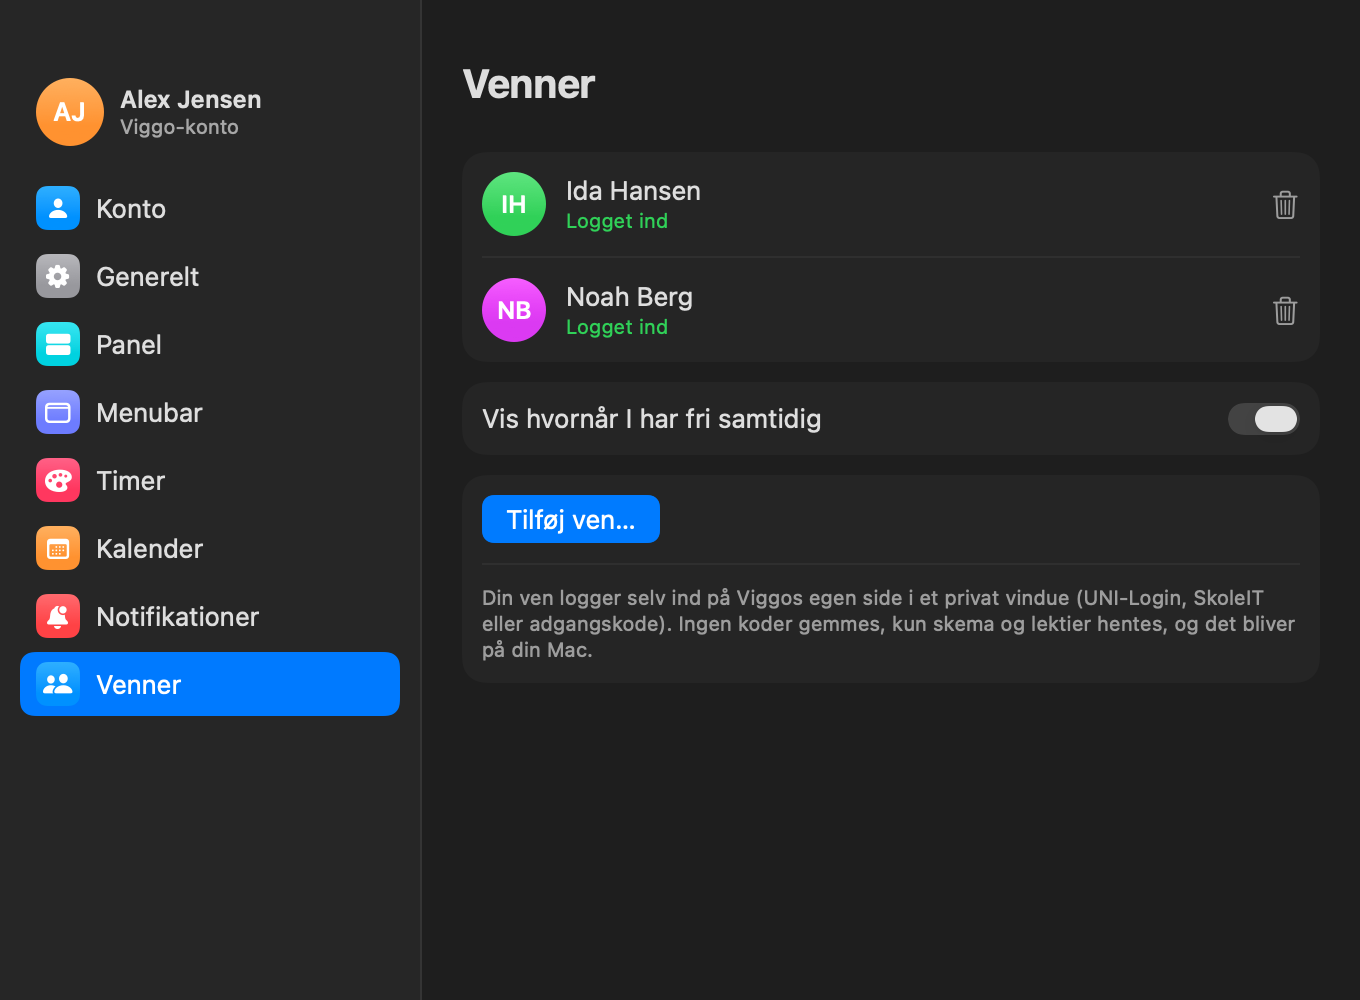
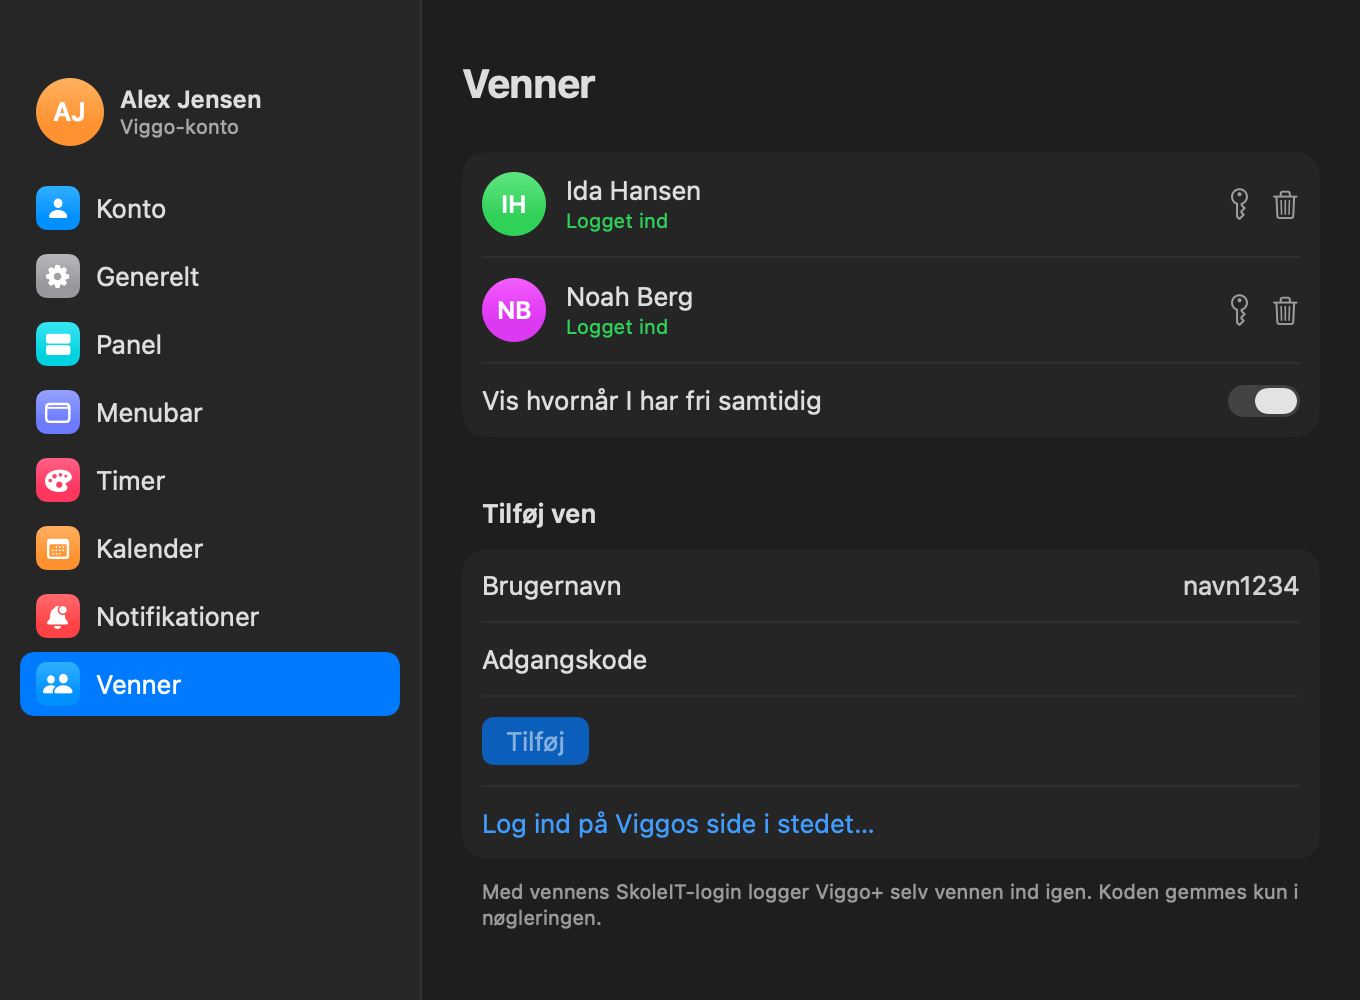
Enklere Konto- og Venner-side: login-felter direkte på siden, kortere tekster

diff --git a/Sources/Views.swift b/Sources/Views.swift
@@ -577,6 +577,7 @@ struct SettingsView: View {
 
 struct AccountTab: View {
     @EnvironmentObject var state: AppState
+    @State private var saved = SkoleITLogin.isSet
 
     var body: some View {
         Form {
@@ -586,72 +587,43 @@ struct AccountTab: View {
                         Avatar(url: prof.image, size: 48, name: prof.name)
                         VStack(alignment: .leading, spacing: 2) {
                             Text(prof.name).font(.headline)
-                            Text("Logget ind på \(Config.baseURL.host ?? "Viggo")").font(.caption).foregroundStyle(.secondary)
+                            Text(Config.baseURL.host ?? "Viggo").font(.caption).foregroundStyle(.secondary)
                         }
                         Spacer()
                         Button("Log ud", role: .destructive) { state.logout() }
                     }
                 }
-                Section {
-                    Label("Viggo+ holder dig logget ind så længe appen kører. Udløber sessionen alligevel, får du en notifikation og logger ind igen med ét klik.",
-                          systemImage: "checkmark.shield")
-                        .font(.caption).foregroundStyle(.secondary)
-                }
-            } else {
-                Section("Log ind") {
-                    Button("Åbn Viggo-login…") { state.loginWithBrowser() }.buttonStyle(.borderedProminent)
-                    Text("UNI-Login, SkoleIT eller adgangskode, præcis som på hjemmesiden.")
-                        .font(.caption).foregroundStyle(.secondary)
-                    if !state.loginMessage.isEmpty {
-                        Text(state.loginMessage).font(.caption)
+            }
+            Section {
+                if saved {
+                    HStack {
+                        Label(SkoleITLogin.username ?? "", systemImage: "key.fill")
+                        Spacer()
+                        if state.autoLoginRunning { ProgressView().controlSize(.small) }
+                        if state.needsLogin {
+                            Button("Log ind") { Task { if await state.tryAutoLogin(force: true) { await state.sync() } } }
+                                .buttonStyle(.borderedProminent).disabled(state.autoLoginRunning)
+                        }
+                        Button("Fjern") { state.removeAutoLogin(); saved = false }
+                    }
+                } else {
+                    SkoleITFields(button: state.needsLogin ? "Log ind" : "Gem") { u, p in
+                        saved = true
+                        Task { await state.saveAutoLogin(username: u, password: p) }
                     }
                 }
+                if state.needsLogin {
+                    Button("Log ind på Viggos side i stedet…") { state.loginWithBrowser() }.buttonStyle(.link)
+                }
+                if !state.loginMessage.isEmpty { Text(state.loginMessage).font(.caption).foregroundStyle(.secondary) }
+            } header: {
+                Text(state.needsLogin ? "Log ind med SkoleIT" : "Automatisk login")
+            } footer: {
+                Text("Viggo+ logger selv ind, når sessionen udløber. Koden gemmes kun i nøgleringen.")
+                    .font(.caption).foregroundStyle(.secondary)
             }
-            AutoLoginSection()
         }
         .formStyle(.grouped)
-    }
-}
-
-/// Saved SkoleIT login, so Viggo+ can log in again by itself when the session runs out.
-struct AutoLoginSection: View {
-    @EnvironmentObject var state: AppState
-    @State private var user = SkoleITLogin.username ?? ""
-    @State private var pass = ""
-    @State private var saved = SkoleITLogin.isSet
-
-    var body: some View {
-        Section("Automatisk login med SkoleIT") {
-            if saved {
-                HStack {
-                    Label(SkoleITLogin.username ?? "", systemImage: "key.fill")
-                    Spacer()
-                    Button("Log ind nu") { Task { if await state.tryAutoLogin(force: true) { await state.sync() } } }
-                        .disabled(state.autoLoginRunning)
-                    Button("Fjern", role: .destructive) { state.removeAutoLogin(); saved = false; pass = "" }
-                }
-            } else {
-                TextField("SkoleIT-brugernavn", text: $user, prompt: Text("navn1234"))
-                    .textContentType(.username)
-                if !user.isEmpty, !user.contains("@") {
-                    Text("Logger ind som \(SkoleITLogin.normalize(user))").font(.caption).foregroundStyle(.secondary)
-                }
-                SecureField("Adgangskode", text: $pass)
-                    .textContentType(.password)
-                Button("Gem og log ind") {
-                    let u = user.trimmingCharacters(in: .whitespaces), p = pass
-                    pass = ""
-                    saved = true
-                    Task { await state.saveAutoLogin(username: u, password: p) }
-                }
-                .buttonStyle(.borderedProminent)
-                .disabled(user.trimmingCharacters(in: .whitespaces).isEmpty || pass.isEmpty || state.autoLoginRunning)
-            }
-            if state.autoLoginRunning { ProgressView().controlSize(.small) }
-            if saved, !state.loginMessage.isEmpty { Text(state.loginMessage).font(.caption) }
-            Text("Udløber sessionen, logger Viggo+ selv ind: UNI-Login, Lokalt login, SkoleIT. Adgangskoden ligger kun i din Mac's nøglering. Log ud fjerner den.")
-                .font(.caption).foregroundStyle(.secondary)
-        }
         .onReceive(state.$loginMessage) { _ in saved = SkoleITLogin.isSet }
     }
 }
@@ -880,54 +852,54 @@ struct SkoleITFields: View {
     @State private var pass = ""
 
     var body: some View {
-        TextField("SkoleIT-brugernavn", text: $user, prompt: Text("navn1234"))
-        if !user.isEmpty, !user.contains("@") {
-            Text("Logger ind som \(SkoleITLogin.normalize(user))").font(.caption).foregroundStyle(.secondary)
-        }
+        TextField("Brugernavn", text: $user, prompt: Text("navn1234"))
+            .help(user.isEmpty || user.contains("@") ? "" : SkoleITLogin.normalize(user))
         SecureField("Adgangskode", text: $pass)
-        Button(button) {
-            let u = SkoleITLogin.normalize(user), p = pass
-            user = ""; pass = ""
-            onSave(u, p)
-        }
-        .disabled(user.trimmingCharacters(in: .whitespaces).isEmpty || pass.isEmpty)
+            .onSubmit(save)
+        Button(button, action: save)
+            .buttonStyle(.borderedProminent)
+            .disabled(user.trimmingCharacters(in: .whitespaces).isEmpty || pass.isEmpty)
+    }
+
+    private func save() {
+        guard !user.trimmingCharacters(in: .whitespaces).isEmpty, !pass.isEmpty else { return }
+        let u = SkoleITLogin.normalize(user), p = pass
+        user = ""; pass = ""
+        onSave(u, p)
     }
 }
 
-/// The key next to a friend: save, test or remove their SkoleIT login.
+/// The key next to a friend: save or remove their SkoleIT login.
 struct FriendAutoLoginButton: View {
     @EnvironmentObject var state: AppState
     let friend: Friend
     @State private var open = false
-    @State private var saved = false
 
     var body: some View {
-        Button { saved = FriendLogin.has(friend.id); open = true } label: {
-            Image(systemName: FriendLogin.has(friend.id) ? "key.fill" : "key")
-        }
-        .buttonStyle(.borderless)
-        .help("Automatisk login for \(friend.firstName)")
-        .popover(isPresented: $open, arrowEdge: .bottom) {
-            Form {
-                Section("Automatisk login for \(friend.firstName)") {
-                    if saved, let u = FriendLogin.get(friend.id)?.user {
-                        Label(u, systemImage: "key.fill")
-                        HStack {
-                            Button("Log ind nu") { Task { await state.tryFriendAutoLogin(friend, force: true) } }
-                            Button("Fjern", role: .destructive) { state.removeFriendAutoLogin(friend); saved = false }
-                        }
-                    } else {
-                        SkoleITFields(button: "Gem og log ind") { u, p in
-                            saved = true
-                            Task { await state.saveFriendAutoLogin(friend, username: u, password: p) }
+        let saved = FriendLogin.has(friend.id)
+        Button { open = true } label: { Image(systemName: saved ? "key.fill" : "key") }
+            .buttonStyle(.borderless)
+            .help(saved ? "Automatisk login er slået til" : "Slå automatisk login til")
+            .popover(isPresented: $open, arrowEdge: .bottom) {
+                Form {
+                    Section("Automatisk login for \(friend.firstName)") {
+                        if saved, let u = FriendLogin.get(friend.id)?.user {
+                            HStack {
+                                Text(u)
+                                Spacer()
+                                Button("Fjern") { state.removeFriendAutoLogin(friend); open = false }
+                            }
+                        } else {
+                            SkoleITFields(button: "Gem") { u, p in
+                                open = false
+                                Task { await state.saveFriendAutoLogin(friend, username: u, password: p) }
+                            }
                         }
                     }
-                    if !state.friendMessage.isEmpty { Text(state.friendMessage).font(.caption) }
                 }
+                .formStyle(.grouped)
+                .frame(width: 300)
             }
-            .formStyle(.grouped)
-            .frame(width: 320)
-        }
     }
 }
 
@@ -937,51 +909,46 @@ struct FriendsTab: View {
 
     var body: some View {
         Form {
-            Section {
-                if state.friends.isEmpty {
-                    Text("Ingen venner tilføjet endnu").foregroundStyle(.secondary)
-                }
-                ForEach(state.friends) { f in
-                    let expired = state.friendExpired.contains(f.id)
-                    HStack(spacing: 10) {
-                        Avatar(url: f.image, size: 32, name: f.name).opacity(expired ? 0.5 : 1)
-                        VStack(alignment: .leading, spacing: 1) {
-                            Text(f.name)
-                            Text(expired ? "Skal logge ind igen" : "Logget ind")
-                                .font(.caption).foregroundStyle(expired ? .orange : .green)
+            if !state.friends.isEmpty {
+                Section {
+                    ForEach(state.friends) { f in
+                        let expired = state.friendExpired.contains(f.id)
+                        HStack(spacing: 10) {
+                            Avatar(url: f.image, size: 32, name: f.name).opacity(expired ? 0.5 : 1)
+                            VStack(alignment: .leading, spacing: 1) {
+                                Text(f.name)
+                                Text(expired ? "Skal logge ind igen" : "Logget ind")
+                                    .font(.caption).foregroundStyle(expired ? .orange : .green)
+                            }
+                            Spacer()
+                            if state.friendAutoLoginRunning.contains(f.id) {
+                                ProgressView().controlSize(.small)
+                            } else if expired {
+                                Button("Log ind") {
+                                    if FriendLogin.has(f.id) {
+                                        Task { if await !state.tryFriendAutoLogin(f, force: true) { state.addFriend(relogin: f) } }
+                                    } else { state.addFriend(relogin: f) }
+                                }.buttonStyle(.borderedProminent)
+                            }
+                            FriendAutoLoginButton(friend: f)
+                            Button(role: .destructive) { state.removeFriend(f) } label: { Image(systemName: "trash") }
+                                .buttonStyle(.borderless)
                         }
-                        Spacer()
-                        if state.friendAutoLoginRunning.contains(f.id) { ProgressView().controlSize(.small) }
-                        if expired {
-                            Button("Log ind igen") {
-                                if FriendLogin.has(f.id) {
-                                    Task { if await !state.tryFriendAutoLogin(f, force: true) { state.addFriend(relogin: f) } }
-                                } else { state.addFriend(relogin: f) }
-                            }.buttonStyle(.borderedProminent)
-                        }
-                        FriendAutoLoginButton(friend: f)
-                        Button(role: .destructive) { state.removeFriend(f) } label: { Image(systemName: "trash") }
-                            .buttonStyle(.borderless)
                     }
+                    Toggle("Vis hvornår I har fri samtidig", isOn: $p.friendsFreeTogether)
                 }
             }
             Section {
-                Toggle("Vis hvornår I har fri samtidig", isOn: $p.friendsFreeTogether)
-            }
-            Section {
-                Button("Tilføj ven…") { state.addFriend() }.buttonStyle(.borderedProminent)
-                Text("Din ven logger selv ind på Viggos egen side i et privat vindue (UNI-Login, SkoleIT eller adgangskode). Kun skema og lektier hentes, og det bliver på din Mac.")
-                    .font(.caption).foregroundStyle(.secondary)
-            }
-            Section("Tilføj ven med SkoleIT-login") {
-                SkoleITFields(button: "Tilføj og log ind") { u, p in
+                SkoleITFields(button: "Tilføj") { u, p in
                     Task { await state.addFriendWithSkoleIT(username: u, password: p) }
                 }
-                Text("Så logger Viggo+ selv din ven ind igen, når sessionen udløber. Koden ligger kun i din Mac's nøglering og slettes, når vennen fjernes. Nøgle-knappen ved en ven gør det samme for venner du allerede har.")
+                Button("Log ind på Viggos side i stedet…") { state.addFriend() }.buttonStyle(.link)
+                if !state.friendMessage.isEmpty { Text(state.friendMessage).font(.caption).foregroundStyle(.secondary) }
+            } header: {
+                Text("Tilføj ven")
+            } footer: {
+                Text("Med vennens SkoleIT-login logger Viggo+ selv vennen ind igen. Koden gemmes kun i nøgleringen.")
                     .font(.caption).foregroundStyle(.secondary)
-                if !state.friendMessage.isEmpty {
-                    Text(state.friendMessage).font(.caption)
-                }
             }
         }
         .formStyle(.grouped)

diff --git a/Sources/AutoLogin.swift b/Sources/AutoLogin.swift
@@ -8,6 +8,7 @@ enum SkoleITLogin {
     private static let userKey = "autoLoginUser"
 
     static var username: String? {
+        if CommandLine.arguments.contains("--render-docs") { return "navn1234@cloud.skoleit.dk" }   // screenshots never show your login
         let u = UserDefaults.standard.string(forKey: userKey) ?? ""
         return u.isEmpty ? nil : u
     }
@@ -15,6 +16,7 @@ enum SkoleITLogin {
     static var isSet: Bool { username != nil && password != nil }
 
     static var password: String? {
+        if CommandLine.arguments.contains("--render-docs") { return "x" }
         guard let user = username else { return nil }
         var out: AnyObject?
         let q: [String: Any] = [kSecClass as String: kSecClassGenericPassword,
